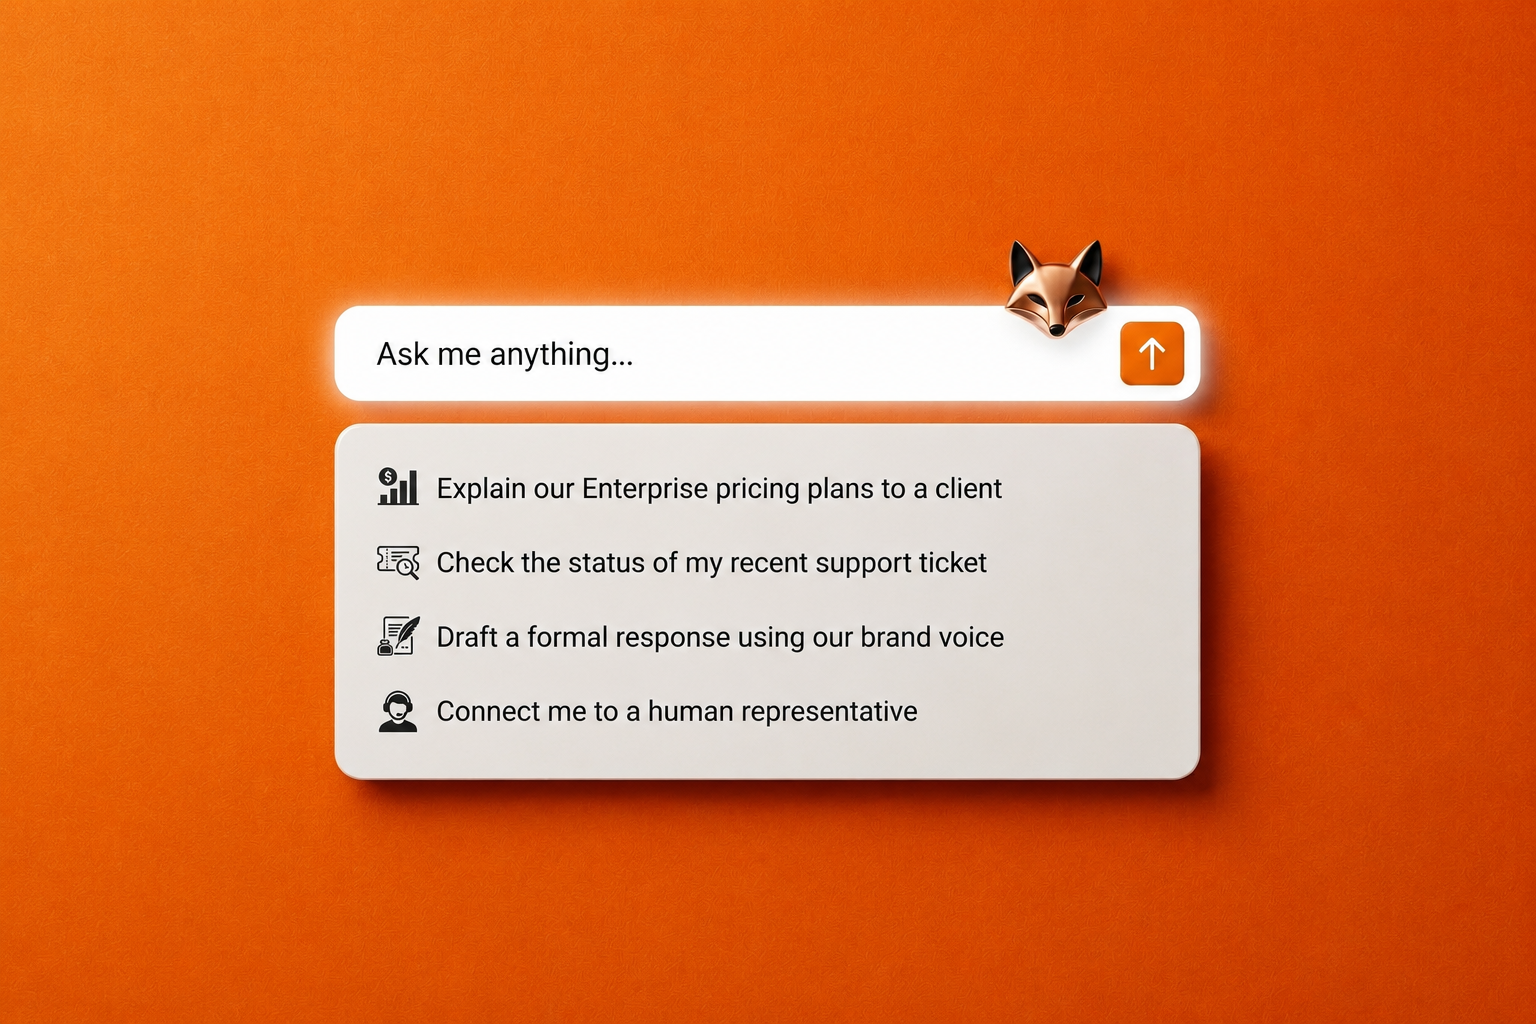
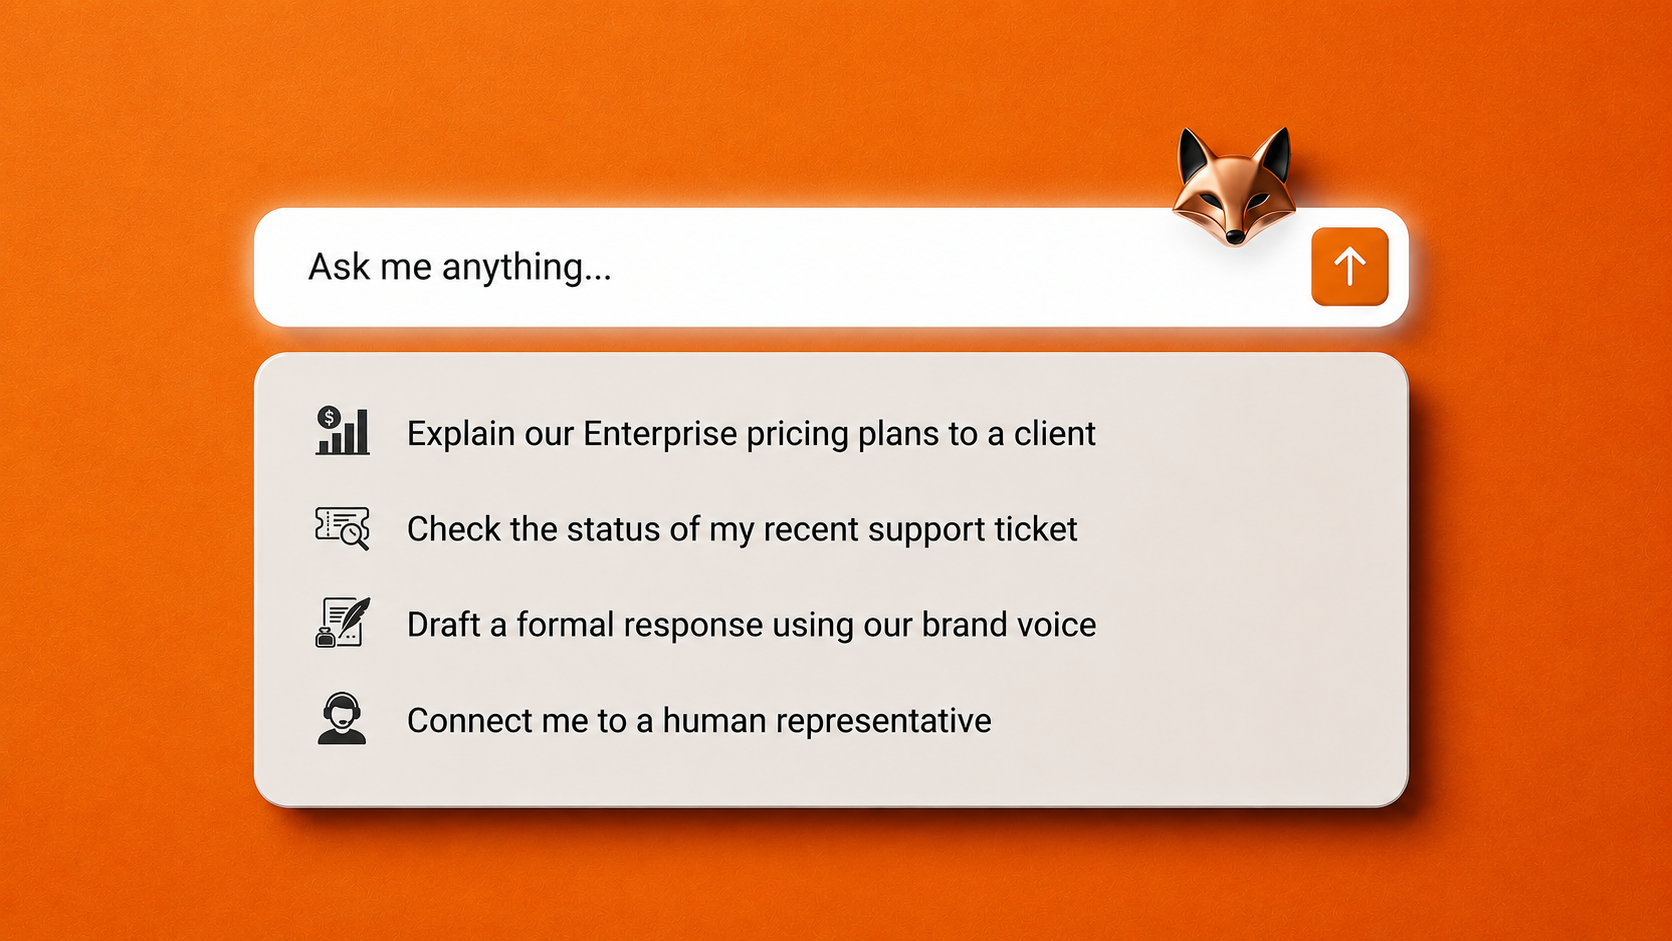
feat: add enterprise AI assistant deployment pipeline and capability components with styled layouts

diff --git a/src/assets/visual/products/enterprise/EnterpriseCapabilityIcons.tsx b/src/assets/visual/products/enterprise/EnterpriseCapabilityIcons.tsx
@@ -1,0 +1,228 @@
+import type { SVGProps } from 'react';
+
+type Pixel = [number, number, string] | [number, number, number, number, string];
+
+function PixelBlocks({
+  pixels,
+  ...svgProps
+}: SVGProps<SVGSVGElement> & { pixels: Pixel[] }) {
+  return (
+    <svg
+      viewBox="0 0 24 24"
+      width="24"
+      height="24"
+      fill="none"
+      shapeRendering="crispEdges"
+      aria-hidden="true"
+      {...svgProps}
+    >
+      {pixels.map((pixel, index) => {
+        const [x, y, wOrColor, hOrColor, maybeColor] = pixel;
+        const w = typeof wOrColor === 'number' ? wOrColor : 1;
+        const h = typeof hOrColor === 'number' ? hOrColor : 1;
+        const fill = typeof wOrColor === 'number' ? (maybeColor as string) : (wOrColor as string);
+        return <rect key={`${x}-${y}-${index}`} x={x} y={y} width={w} height={h} fill={fill} />;
+      })}
+    </svg>
+  );
+}
+
+/* ════════════════════════════════════════════════════════════════════
+   ENTERPRISE CAPABILITIES — 4 icons
+   Brand Voice, Knowledge, Guardrails, Workflow
+   ════════════════════════════════════════════════════════════════════ */
+
+// Brand & Voice Design — speaker with sound bars (lilac/amethyst)
+export function BrandVoiceIcon() {
+  return (
+    <PixelBlocks
+      pixels={[
+        [5, 9, 6, 6, '#A855F7'],
+        [11, 7, 4, 10, '#9333EA'],
+        [15, 9, 2, 6, '#C084FC'],
+        [17, 11, 2, 2, '#E9D5FF'],
+        [7, 11, 2, 2, '#FFFFFF'],
+        [9, 13, 2, 2, '#FFFFFF'],
+      ]}
+    />
+  );
+}
+
+// Business Knowledge Integration — open book with data (azure/emerald)
+export function KnowledgeIcon() {
+  return (
+    <PixelBlocks
+      pixels={[
+        [3, 5, 8, 14, '#2563EB'],
+        [13, 5, 8, 14, '#2563EB'],
+        [4, 5, 6, 14, '#60A5FA'],
+        [14, 5, 6, 14, '#60A5FA'],
+        [11, 4, 2, 16, '#1E40AF'],
+        [12, 4, 2, 16, '#1E40AF'],
+        [5, 8, 4, 1, '#FFFFFF'],
+        [5, 11, 4, 1, '#FFFFFF'],
+        [5, 14, 3, 1, '#FFFFFF'],
+        [15, 8, 4, 1, '#FFFFFF'],
+        [15, 11, 4, 1, '#FFFFFF'],
+        [15, 14, 3, 1, '#FFFFFF'],
+        [10, 11, 4, 2, '#05E3A4'],
+        [10, 13, 4, 1, '#027A56'],
+      ]}
+    />
+  );
+}
+
+// Guardrails & Escalation — shield with check (emerald/amber)
+export function GuardrailsIcon() {
+  return (
+    <PixelBlocks
+      pixels={[
+        [5, 3, 14, 4, '#027A56'],
+        [8, 2, 8, 2, '#05E3A4'],
+        [4, 7, 16, 10, '#05E3A4'],
+        [4, 17, 16, 2, '#05E3A4'],
+        [10, 19, 4, 3, '#027A56'],
+        [6, 9, 12, 8, '#FFFFFF'],
+        [9, 12, 2, 2, '#10B981'],
+        [11, 13, 2, 2, '#10B981'],
+        [13, 11, 2, 2, '#10B981'],
+        [9, 11, 1, 5, '#10B981'],
+        [9, 14, 5, 2, '#10B981'],
+      ]}
+    />
+  );
+}
+
+// Tool & Workflow Support — interlocking gears (azure/lilac)
+export function WorkflowIcon() {
+  return (
+    <PixelBlocks
+      pixels={[
+        [3, 3, 10, 10, '#2563EB'],
+        [2, 5, 2, 6, '#2563EB'],
+        [12, 5, 2, 6, '#2563EB'],
+        [5, 2, 2, 6, '#2563EB'],
+        [9, 2, 2, 6, '#2563EB'],
+        [5, 14, 2, 6, '#2563EB'],
+        [9, 14, 2, 6, '#2563EB'],
+        [6, 6, 4, 4, '#FFFFFF'],
+        [11, 11, 10, 10, '#A855F7'],
+        [10, 13, 2, 6, '#A855F7'],
+        [20, 13, 2, 6, '#A855F7'],
+        [13, 10, 6, 2, '#A855F7'],
+        [13, 20, 6, 2, '#A855F7'],
+        [14, 14, 4, 4, '#FFFFFF'],
+        [17, 17, 2, 2, '#05E3A4'],
+      ]}
+    />
+  );
+}
+
+/* ════════════════════════════════════════════════════════════════════
+   ENTERPRISE USE CASES — 4 icons
+   Headset, People, Badge, WorkflowAgent
+   ════════════════════════════════════════════════════════════════════ */
+
+// Customer Service Agent — headset (azure/lilac)
+export function HeadsetIcon() {
+  return (
+    <PixelBlocks
+      pixels={[
+        [4, 8, 16, 2, '#2563EB'],
+        [5, 10, 2, 5, '#2563EB'],
+        [17, 10, 2, 5, '#2563EB'],
+        [5, 15, 2, 2, '#1E40AF'],
+        [17, 15, 2, 2, '#1E40AF'],
+        [7, 12, 10, 3, '#60A5FA'],
+        [9, 18, 6, 2, '#C084FC'],
+        [10, 16, 4, 1, '#A855F7'],
+        [8, 20, 8, 1, '#9333EA'],
+        [11, 13, 2, 1, '#FFFFFF'],
+        [13, 13, 2, 1, '#FFFFFF'],
+      ]}
+    />
+  );
+}
+
+// Internal Assistant — two people/users (emerald/amber)
+export function PeopleIcon() {
+  return (
+    <PixelBlocks
+      pixels={[
+        [3, 6, 8, 8, '#05E3A4'],
+        [4, 7, 6, 6, '#FFFFFF'],
+        [6, 9, 2, 2, '#2563EB'],
+        [9, 9, 2, 2, '#2563EB'],
+        [6, 12, 2, 1, '#A855F7'],
+        [8, 12, 2, 1, '#A855F7'],
+        [13, 6, 8, 8, '#F59E0B'],
+        [14, 7, 6, 6, '#FFFFFF'],
+        [16, 9, 2, 2, '#2563EB'],
+        [19, 9, 2, 2, '#2563EB'],
+        [16, 12, 2, 1, '#A855F7'],
+        [18, 12, 2, 1, '#A855F7'],
+      ]}
+    />
+  );
+}
+
+// Brand Assistant — verified badge with check (lilac/emerald)
+export function BadgeIcon() {
+  return (
+    <PixelBlocks
+      pixels={[
+        [6, 3, 12, 2, '#C084FC'],
+        [5, 5, 14, 2, '#9333EA'],
+        [4, 7, 16, 12, '#A855F7'],
+        [4, 19, 16, 2, '#9333EA'],
+        [8, 8, 8, 1, '#FFFFFF'],
+        [8, 11, 8, 1, '#E9D5FF'],
+        [10, 13, 4, 1, '#FFFFFF'],
+        [10, 15, 4, 2, '#05E3A4'],
+        [11, 14, 2, 1, '#FFFFFF'],
+        [13, 13, 2, 1, '#FFFFFF'],
+        [11, 13, 1, 5, '#05E3A4'],
+        [11, 16, 4, 2, '#05E3A4'],
+      ]}
+    />
+  );
+}
+
+// Workflow Agent — flow diagram / pipeline (azure/amber)
+export function WorkflowAgentIcon() {
+  return (
+    <PixelBlocks
+      pixels={[
+        [4, 8, 6, 2, '#2563EB'],
+        [14, 8, 6, 2, '#F59E0B'],
+        [4, 10, 6, 2, '#60A5FA'],
+        [14, 10, 6, 2, '#FBBF24'],
+        [6, 12, 2, 4, '#2563EB'],
+        [16, 12, 2, 4, '#F59E0B'],
+        [8, 12, 8, 2, '#A855F7'],
+        [9, 14, 6, 1, '#FFFFFF'],
+        [4, 16, 6, 2, '#2563EB'],
+        [14, 16, 6, 2, '#F59E0B'],
+        [6, 18, 2, 4, '#2563EB'],
+        [16, 18, 2, 4, '#F59E0B'],
+      ]}
+    />
+  );
+}
+
+/* ════════════════════════════════════════════════════════════════════
+   REGISTRY — keyed by semantic name (lowercase) + lucide fallback names
+   ════════════════════════════════════════════════════════════════════ */
+
+export const EnterpriseIcons: Record<string, React.FC> = {
+  // Capabilities (keys match capabilities.json icon names lowercased)
+  'palette': BrandVoiceIcon,
+  'database': KnowledgeIcon,
+  'shieldalert': GuardrailsIcon,
+  'activity': WorkflowIcon,
+  // Use Cases (keys match use_cases.json icon names lowercased)
+  'headset': HeadsetIcon,
+  'users': PeopleIcon,
+  'badgecheck': BadgeIcon,
+  'workflow': WorkflowAgentIcon,
+};

diff --git a/src/sections/pages/products/enterprise-ai-assistant/EnterprisePipeline/EnterprisePipeline.styles.ts b/src/sections/pages/products/enterprise-ai-assistant/EnterprisePipeline/EnterprisePipeline.styles.ts
@@ -74,7 +74,9 @@ export const SidebarItem = styled.button<{ $active: boolean }>`
   cursor: pointer;
 
   font-family: ${({ theme }) => theme.typography.fonts.sans};
-  font-size: 14px;
+  font-size: 15px;
+  line-height: 1.4;
+  letter-spacing: -0.01em;
   text-align: left;
 
   /* Active state typography adjustments */
@@ -91,7 +93,7 @@ export const SidebarItem = styled.button<{ $active: boolean }>`
 
   &:hover {
     color: ${({ theme }) => theme.colors.text.primary};
-    background: rgba(0, 0, 0, 0.02);
+    background: ${({ theme }) => theme.colors.background.secondary};
   }
 
   /* Pixel-perfect recreation of the active right-arrow from the screenshot */
@@ -120,20 +122,17 @@ export const SidebarItem = styled.button<{ $active: boolean }>`
   }
 `;
 
-/** Icon chip on the leading edge of each sidebar item. */
+/** Icon on the leading edge of each sidebar item — pure SVG, no background chip. */
 export const SidebarItemIcon = styled.span<{ $active: boolean }>`
   display: inline-flex;
   align-items: center;
   justify-content: center;
-  width: 28px;
-  height: 28px;
+  width: 24px;
+  height: 24px;
   flex-shrink: 0;
-  border-radius: 6px;
-  background: ${({ $active, theme }) =>
-    $active ? theme.colors.accent.azureMuted : 'rgba(15, 23, 42, 0.04)'};
   color: ${({ $active, theme }) =>
-    $active ? theme.colors.accent.azureDark : theme.colors.text.secondary};
-  transition: all ${({ theme }) => theme.transitions.fast};
+    $active ? theme.colors.text.primary : theme.colors.text.muted};
+  transition: color ${({ theme }) => theme.transitions.fast};
 `;
 
 /** Label text inside each sidebar item. */

diff --git a/src/sections/pages/products/deployment/DeploymentPipeline/DeploymentPipeline.styles.ts b/src/sections/pages/products/deployment/DeploymentPipeline/DeploymentPipeline.styles.ts
@@ -50,7 +50,9 @@ export const SidebarItem = styled.button<{ $active: boolean }>`
   cursor: pointer;
 
   font-family: ${({ theme }) => theme.typography.fonts.sans};
-  font-size: 14px;
+  font-size: 15px;
+  line-height: 1.4;
+  letter-spacing: -0.01em;
   text-align: left;
 
   /* Active state typography adjustments */
@@ -67,7 +69,7 @@ export const SidebarItem = styled.button<{ $active: boolean }>`
 
   &:hover {
     color: ${({ theme }) => theme.colors.text.primary};
-    background: rgba(0, 0, 0, 0.02);
+    background: ${({ theme }) => theme.colors.background.secondary};
   }
 
   /* Pixel-perfect recreation of the active right-arrow from the screenshot */
@@ -96,20 +98,17 @@ export const SidebarItem = styled.button<{ $active: boolean }>`
   }
 `;
 
-/** Icon chip on the leading edge of each sidebar item. */
+/** Icon on the leading edge of each sidebar item — pure SVG, no background chip. */
 export const SidebarItemIcon = styled.span<{ $active: boolean }>`
   display: inline-flex;
   align-items: center;
   justify-content: center;
-  width: 28px;
-  height: 28px;
+  width: 24px;
+  height: 24px;
   flex-shrink: 0;
-  border-radius: 6px;
-  background: ${({ $active, theme }) =>
-    $active ? theme.colors.accent.azureMuted : 'rgba(15, 23, 42, 0.04)'};
   color: ${({ $active, theme }) =>
-    $active ? theme.colors.accent.azureDark : theme.colors.text.secondary};
-  transition: all ${({ theme }) => theme.transitions.fast};
+    $active ? theme.colors.text.primary : theme.colors.text.muted};
+  transition: color ${({ theme }) => theme.transitions.fast};
 `;
 
 /** Label text inside each sidebar item. */

diff --git a/src/sections/pages/products/enterprise-ai-assistant/EnterpriseUseCases/EnterpriseUseCases.tsx b/src/sections/pages/products/enterprise-ai-assistant/EnterpriseUseCases/EnterpriseUseCases.tsx
@@ -1,6 +1,5 @@
 import { useState, useEffect } from 'react';
 import { motion } from 'framer-motion';
-import { Headset, BadgeCheck, Users, Workflow } from 'lucide-react';
 import useCasesData from '@neryva_data/products/ai_enterprised/use_cases.json';
 import {
   UseCasesSection,
@@ -17,12 +16,7 @@ import {
   AppDesc,
 } from './EnterpriseUseCases.styles';
 
-const iconMap: Record<string, React.ElementType> = {
-  Headset,
-  BadgeCheck,
-  Users,
-  Workflow,
-};
+import { EnterpriseIcons } from '@assets/visual/products/enterprise/EnterpriseCapabilityIcons';
 
 const premiumEase = [0.16, 1, 0.3, 1] as const;
 
@@ -96,7 +90,7 @@ export function EnterpriseUseCases() {
           }}
         >
           {items.map((item, index) => {
-            const Icon = iconMap[item.icon];
+            const Icon = EnterpriseIcons[item.icon.toLowerCase()];
             const isActive = index === activeIndex;
             /* Width-matched duration — wider cards dwell longer,
                and the bar's animation synchronises exactly with this timer. */

diff --git a/src/sections/pages/products/enterprise-ai-assistant/EnterpriseCapabilities/EnterpriseCapabilities.tsx b/src/sections/pages/products/enterprise-ai-assistant/EnterpriseCapabilities/EnterpriseCapabilities.tsx
@@ -1,5 +1,4 @@
 import { motion } from 'framer-motion';
-import { Palette, Database, ShieldAlert, Activity } from 'lucide-react';
 import capsData from '@neryva_data/products/ai_enterprised/capabilities.json';
 import {
   CapabilitiesSection,
@@ -13,12 +12,7 @@ import {
   CellDesc,
 } from './EnterpriseCapabilities.styles';
 
-const iconMap: Record<string, React.ElementType> = {
-  Palette,
-  Database,
-  ShieldAlert,
-  Activity,
-};
+import { EnterpriseIcons } from '@assets/visual/products/enterprise/EnterpriseCapabilityIcons';
 
 const premiumEase = [0.16, 1, 0.3, 1] as const;
 
@@ -58,7 +52,7 @@ export function EnterpriseCapabilities() {
           viewport={{ once: true, margin: '-50px' }}
         >
           {capsData.items.map((item, i) => {
-            const IconComponent = iconMap[item.icon];
+            const IconComponent = EnterpriseIcons[item.icon.toLowerCase()];
 
             return (
               <AppCell
